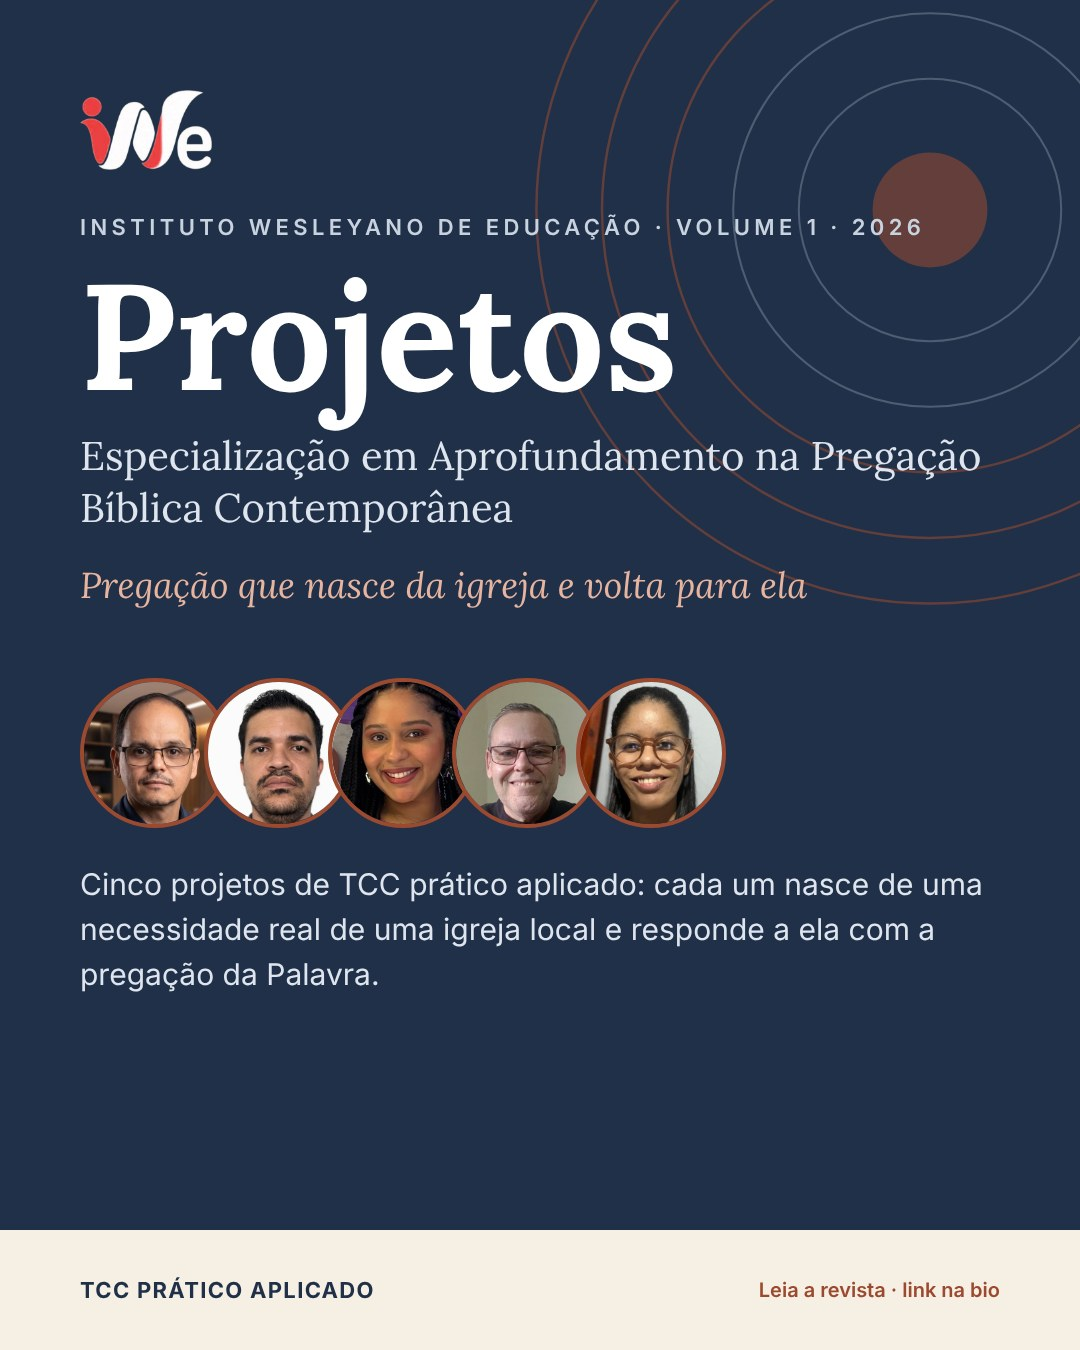
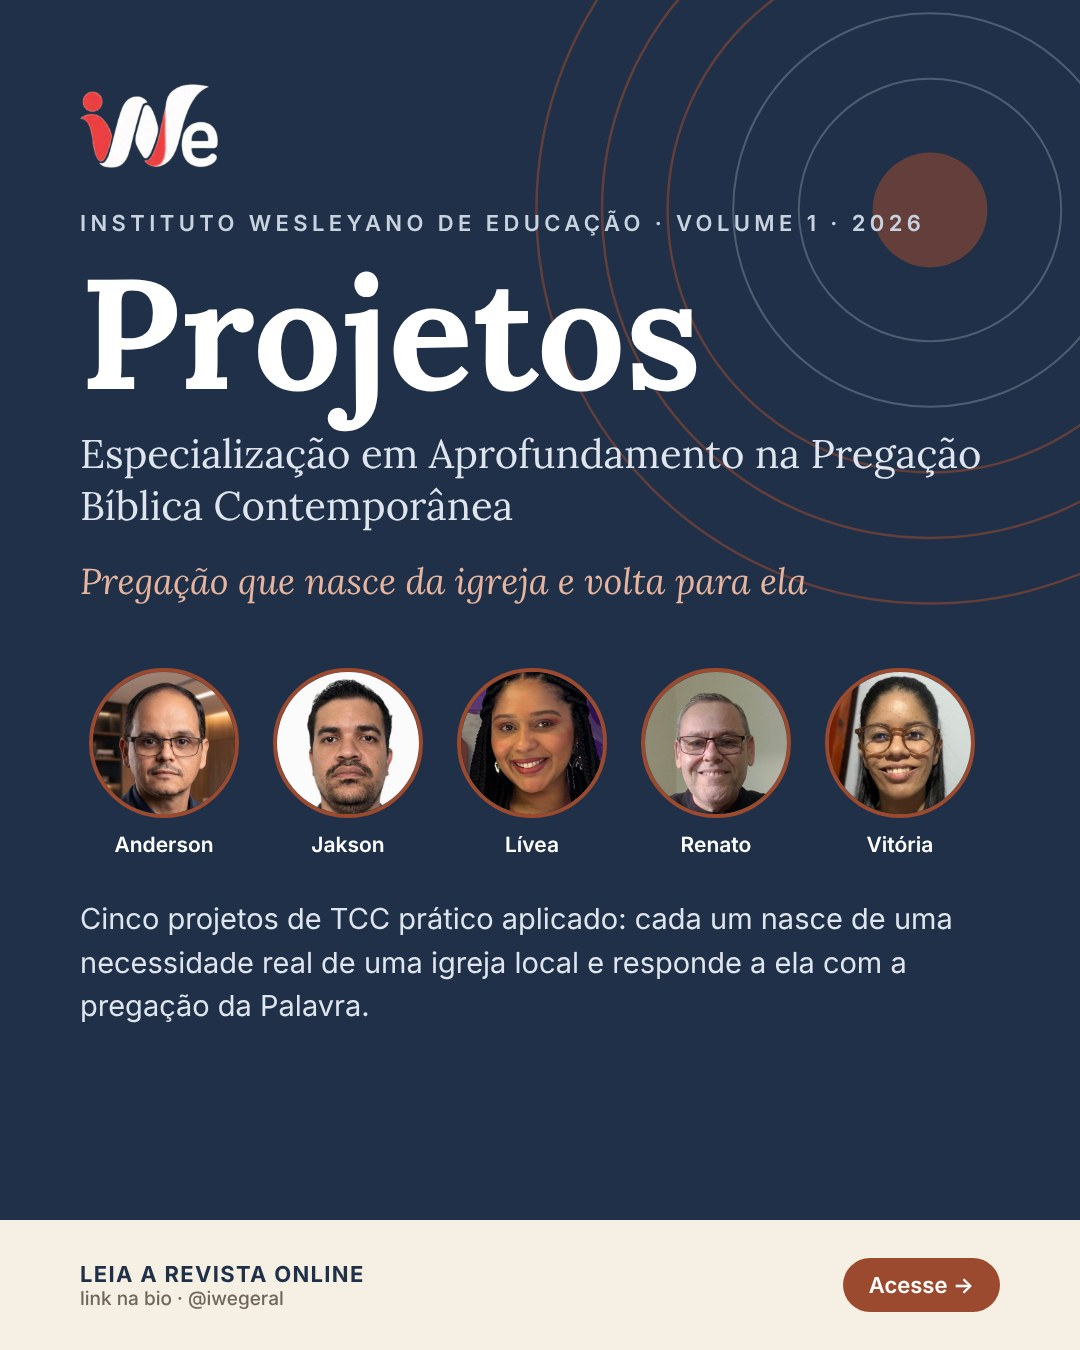
Card personalizado da página (WhatsApp e Instagram) e botões de compartilhar no menu
Claude-Session: https://claude.ai/code/session_01RmxGmrmbycrSVFP3Etbp99

diff --git a/index.html b/index.html
@@ -13,8 +13,8 @@
 <meta property="og:title" content="Revista Projetos · Especialização em Aprofundamento na Pregação Bíblica Contemporânea">
 <meta property="og:description" content="Cinco projetos de TCC prático aplicado do IWE: pregação que nasce da igreja e volta para ela. Volume 1 · 2026.">
 <meta property="og:url" content="https://alexandrebeloniimw-cmyk.github.io/pregacao-biblica-contemporanea-projetos/">
-<meta property="og:image" content="https://alexandrebeloniimw-cmyk.github.io/pregacao-biblica-contemporanea-projetos/img/og/og-revista.jpg">
-<meta property="og:image:secure_url" content="https://alexandrebeloniimw-cmyk.github.io/pregacao-biblica-contemporanea-projetos/img/og/og-revista.jpg">
+<meta property="og:image" content="https://alexandrebeloniimw-cmyk.github.io/pregacao-biblica-contemporanea-projetos/img/og/og-revista-v2.jpg">
+<meta property="og:image:secure_url" content="https://alexandrebeloniimw-cmyk.github.io/pregacao-biblica-contemporanea-projetos/img/og/og-revista-v2.jpg">
 <meta property="og:image:type" content="image/jpeg">
 <meta property="og:image:width" content="1200">
 <meta property="og:image:height" content="630">
@@ -40,6 +40,14 @@ nav .links a{text-decoration:none;opacity:.85}
 nav .links a:hover{opacity:1}
 nav .links a,nav .brand{white-space:nowrap}
 nav .links{gap:16px!important}
+.nshare{display:inline-flex;align-items:center;justify-content:center;width:32px;height:32px;border-radius:50%;border:0;cursor:pointer;opacity:1!important;flex:none;padding:0}
+.nshare .ico{width:17px;height:17px;vertical-align:0}
+.nshare.wa{background:#25d366;color:#fff!important}
+.nshare.ig{background:linear-gradient(45deg,#f09433,#dc2743 50%,#bc1888);color:#fff}
+.nshare:hover{filter:brightness(1.1)}
+nav .links{gap:14px!important}
+nav .wrap{max-width:1240px}
+.mlinks{align-items:center}
 nav .links .sep{width:1px;height:18px;background:rgba(201,211,224,.4)}
 nav .links{align-items:center}
 .mlinks{display:none}
@@ -208,9 +216,9 @@ footer a{color:#e7b49f;text-decoration:none}
 
 <nav><div class="wrap">
  <a class="brand" href="#topo"><img src="img/logo-iwe-claro.png" alt="Logo do IWE">Projetos · Volume 1</a>
- <div class="links"><a href="#projetos">Projetos</a><a href="#ementa">Ementa</a><a href="#expediente">Expediente</a><a href="pdf/revista-projetos-pregacao-biblica-contemporanea-v1.pdf" target="_blank">Revista (PDF)</a><span class="sep"></span><a href="https://alexandrebeloniimw-cmyk.github.io/revistateologicoministerialiwecascadura2026/">IWE Cascadura</a><a href="https://alexandrebeloniimw-cmyk.github.io/revista-iwe-2026/">IWE John Wesley</a><a href="https://alexandrebeloniimw-cmyk.github.io/revistateologicoministerialiwecascadura2026/acervo.html">Acervo</a><a class="insta-pill" href="https://www.instagram.com/iwegeral/" target="_blank" rel="noopener" aria-label="Instagram do IWE (@iwegeral)"><svg class="ico" viewBox="0 0 24 24" aria-hidden="true"><path d="M12 7a5 5 0 1 0 0 10 5 5 0 0 0 0-10zm0 8.2a3.2 3.2 0 1 1 0-6.4 3.2 3.2 0 0 1 0 6.4zM17.3 5.5a1.2 1.2 0 1 0 0 2.4 1.2 1.2 0 0 0 0-2.4zM21.9 7.1c-.1-1.6-.4-3-1.6-4.2S17.6 1.3 16 1.2C14.3 1.1 9.7 1.1 8 1.2c-1.6.1-3 .4-4.2 1.6S2.2 5.5 2.1 7.1C2 8.8 2 13.4 2.1 15.1c.1 1.6.4 3 1.6 4.2s2.6 1.5 4.2 1.6c1.7.1 6.3.1 8 0 1.6-.1 3-.4 4.2-1.6s1.5-2.6 1.6-4.2c.1-1.7.1-6.3 0-8zm-2.1 9.9a3.2 3.2 0 0 1-1.8 1.8c-1.3.5-4.2.4-5.6.4s-4.3.1-5.6-.4A3.2 3.2 0 0 1 5 17c-.5-1.3-.4-4.2-.4-5.6S4.5 7.1 5 5.8A3.2 3.2 0 0 1 6.8 4c1.3-.5 4.2-.4 5.6-.4s4.3-.1 5.6.4A3.2 3.2 0 0 1 19.8 5.8c.5 1.3.4 4.2.4 5.6s.1 4.3-.4 5.6z"/></svg>@iwegeral</a></div>
+ <div class="links"><a href="#projetos">Projetos</a><a href="#ementa">Ementa</a><a href="#expediente">Expediente</a><a href="pdf/revista-projetos-pregacao-biblica-contemporanea-v1.pdf" target="_blank">Revista (PDF)</a><span class="sep"></span><a href="https://alexandrebeloniimw-cmyk.github.io/revistateologicoministerialiwecascadura2026/">IWE Cascadura</a><a href="https://alexandrebeloniimw-cmyk.github.io/revista-iwe-2026/">IWE John Wesley</a><a href="https://alexandrebeloniimw-cmyk.github.io/revistateologicoministerialiwecascadura2026/acervo.html">Acervo</a><a class="insta-pill" href="https://www.instagram.com/iwegeral/" target="_blank" rel="noopener" aria-label="Instagram do IWE (@iwegeral)"><svg class="ico" viewBox="0 0 24 24" aria-hidden="true"><path d="M12 7a5 5 0 1 0 0 10 5 5 0 0 0 0-10zm0 8.2a3.2 3.2 0 1 1 0-6.4 3.2 3.2 0 0 1 0 6.4zM17.3 5.5a1.2 1.2 0 1 0 0 2.4 1.2 1.2 0 0 0 0-2.4zM21.9 7.1c-.1-1.6-.4-3-1.6-4.2S17.6 1.3 16 1.2C14.3 1.1 9.7 1.1 8 1.2c-1.6.1-3 .4-4.2 1.6S2.2 5.5 2.1 7.1C2 8.8 2 13.4 2.1 15.1c.1 1.6.4 3 1.6 4.2s2.6 1.5 4.2 1.6c1.7.1 6.3.1 8 0 1.6-.1 3-.4 4.2-1.6s1.5-2.6 1.6-4.2c.1-1.7.1-6.3 0-8zm-2.1 9.9a3.2 3.2 0 0 1-1.8 1.8c-1.3.5-4.2.4-5.6.4s-4.3.1-5.6-.4A3.2 3.2 0 0 1 5 17c-.5-1.3-.4-4.2-.4-5.6S4.5 7.1 5 5.8A3.2 3.2 0 0 1 6.8 4c1.3-.5 4.2-.4 5.6-.4s4.3-.1 5.6.4A3.2 3.2 0 0 1 19.8 5.8c.5 1.3.4 4.2.4 5.6s.1 4.3-.4 5.6z"/></svg>@iwegeral</a><a class="nshare wa" data-wa="revista" href="#" title="Compartilhar a página no WhatsApp" aria-label="Compartilhar no WhatsApp"><svg class="ico" viewBox="0 0 24 24" aria-hidden="true"><path d="M12 2a10 10 0 0 0-8.6 15.1L2 22l5-1.3A10 10 0 1 0 12 2zm0 18.2a8.2 8.2 0 0 1-4.2-1.2l-.3-.2-3 .8.8-2.9-.2-.3A8.2 8.2 0 1 1 12 20.2zm4.5-6.1c-.2-.1-1.5-.7-1.7-.8-.2-.1-.4-.1-.6.1l-.8 1c-.1.2-.3.2-.5.1a6.7 6.7 0 0 1-3.3-2.9c-.3-.4.2-.4.7-1.3.1-.2 0-.3 0-.4l-.8-1.8c-.2-.5-.4-.4-.6-.4h-.5a1 1 0 0 0-.7.3 3 3 0 0 0-.9 2.2 5.2 5.2 0 0 0 1.1 2.7 11.8 11.8 0 0 0 4.5 4c1.7.7 2.3.8 3.2.6a2.7 2.7 0 0 0 1.8-1.3 2.2 2.2 0 0 0 .2-1.3c-.1-.1-.3-.2-.5-.3z"/></svg></a><button class="nshare ig" data-ig="revista" type="button" title="Card da página para o feed do Instagram" aria-label="Compartilhar no Instagram"><svg class="ico" viewBox="0 0 24 24" aria-hidden="true"><path d="M12 7a5 5 0 1 0 0 10 5 5 0 0 0 0-10zm0 8.2a3.2 3.2 0 1 1 0-6.4 3.2 3.2 0 0 1 0 6.4zM17.3 5.5a1.2 1.2 0 1 0 0 2.4 1.2 1.2 0 0 0 0-2.4zM21.9 7.1c-.1-1.6-.4-3-1.6-4.2S17.6 1.3 16 1.2C14.3 1.1 9.7 1.1 8 1.2c-1.6.1-3 .4-4.2 1.6S2.2 5.5 2.1 7.1C2 8.8 2 13.4 2.1 15.1c.1 1.6.4 3 1.6 4.2s2.6 1.5 4.2 1.6c1.7.1 6.3.1 8 0 1.6-.1 3-.4 4.2-1.6s1.5-2.6 1.6-4.2c.1-1.7.1-6.3 0-8zm-2.1 9.9a3.2 3.2 0 0 1-1.8 1.8c-1.3.5-4.2.4-5.6.4s-4.3.1-5.6-.4A3.2 3.2 0 0 1 5 17c-.5-1.3-.4-4.2-.4-5.6S4.5 7.1 5 5.8A3.2 3.2 0 0 1 6.8 4c1.3-.5 4.2-.4 5.6-.4s4.3-.1 5.6.4A3.2 3.2 0 0 1 19.8 5.8c.5 1.3.4 4.2.4 5.6s.1 4.3-.4 5.6z"/></svg></button></div>
 </div>
-<div class="mlinks"><a href="#projetos">Projetos</a><a href="#ementa">Ementa</a><a href="#expediente">Expediente</a><a href="pdf/revista-projetos-pregacao-biblica-contemporanea-v1.pdf" target="_blank">Revista (PDF)</a><a href="https://alexandrebeloniimw-cmyk.github.io/revistateologicoministerialiwecascadura2026/">IWE Cascadura</a><a href="https://alexandrebeloniimw-cmyk.github.io/revista-iwe-2026/">IWE John Wesley</a><a href="https://alexandrebeloniimw-cmyk.github.io/revistateologicoministerialiwecascadura2026/acervo.html">Acervo</a><a class="insta-pill" href="https://www.instagram.com/iwegeral/" target="_blank" rel="noopener"><svg class="ico" viewBox="0 0 24 24" aria-hidden="true"><path d="M12 7a5 5 0 1 0 0 10 5 5 0 0 0 0-10zm0 8.2a3.2 3.2 0 1 1 0-6.4 3.2 3.2 0 0 1 0 6.4zM17.3 5.5a1.2 1.2 0 1 0 0 2.4 1.2 1.2 0 0 0 0-2.4zM21.9 7.1c-.1-1.6-.4-3-1.6-4.2S17.6 1.3 16 1.2C14.3 1.1 9.7 1.1 8 1.2c-1.6.1-3 .4-4.2 1.6S2.2 5.5 2.1 7.1C2 8.8 2 13.4 2.1 15.1c.1 1.6.4 3 1.6 4.2s2.6 1.5 4.2 1.6c1.7.1 6.3.1 8 0 1.6-.1 3-.4 4.2-1.6s1.5-2.6 1.6-4.2c.1-1.7.1-6.3 0-8zm-2.1 9.9a3.2 3.2 0 0 1-1.8 1.8c-1.3.5-4.2.4-5.6.4s-4.3.1-5.6-.4A3.2 3.2 0 0 1 5 17c-.5-1.3-.4-4.2-.4-5.6S4.5 7.1 5 5.8A3.2 3.2 0 0 1 6.8 4c1.3-.5 4.2-.4 5.6-.4s4.3-.1 5.6.4A3.2 3.2 0 0 1 19.8 5.8c.5 1.3.4 4.2.4 5.6s.1 4.3-.4 5.6z"/></svg>@iwegeral</a>
+<div class="mlinks"><a class="nshare wa" data-wa="revista" href="#" title="Compartilhar a página no WhatsApp" aria-label="Compartilhar no WhatsApp"><svg class="ico" viewBox="0 0 24 24" aria-hidden="true"><path d="M12 2a10 10 0 0 0-8.6 15.1L2 22l5-1.3A10 10 0 1 0 12 2zm0 18.2a8.2 8.2 0 0 1-4.2-1.2l-.3-.2-3 .8.8-2.9-.2-.3A8.2 8.2 0 1 1 12 20.2zm4.5-6.1c-.2-.1-1.5-.7-1.7-.8-.2-.1-.4-.1-.6.1l-.8 1c-.1.2-.3.2-.5.1a6.7 6.7 0 0 1-3.3-2.9c-.3-.4.2-.4.7-1.3.1-.2 0-.3 0-.4l-.8-1.8c-.2-.5-.4-.4-.6-.4h-.5a1 1 0 0 0-.7.3 3 3 0 0 0-.9 2.2 5.2 5.2 0 0 0 1.1 2.7 11.8 11.8 0 0 0 4.5 4c1.7.7 2.3.8 3.2.6a2.7 2.7 0 0 0 1.8-1.3 2.2 2.2 0 0 0 .2-1.3c-.1-.1-.3-.2-.5-.3z"/></svg></a><button class="nshare ig" data-ig="revista" type="button" title="Card da página para o feed do Instagram" aria-label="Compartilhar no Instagram"><svg class="ico" viewBox="0 0 24 24" aria-hidden="true"><path d="M12 7a5 5 0 1 0 0 10 5 5 0 0 0 0-10zm0 8.2a3.2 3.2 0 1 1 0-6.4 3.2 3.2 0 0 1 0 6.4zM17.3 5.5a1.2 1.2 0 1 0 0 2.4 1.2 1.2 0 0 0 0-2.4zM21.9 7.1c-.1-1.6-.4-3-1.6-4.2S17.6 1.3 16 1.2C14.3 1.1 9.7 1.1 8 1.2c-1.6.1-3 .4-4.2 1.6S2.2 5.5 2.1 7.1C2 8.8 2 13.4 2.1 15.1c.1 1.6.4 3 1.6 4.2s2.6 1.5 4.2 1.6c1.7.1 6.3.1 8 0 1.6-.1 3-.4 4.2-1.6s1.5-2.6 1.6-4.2c.1-1.7.1-6.3 0-8zm-2.1 9.9a3.2 3.2 0 0 1-1.8 1.8c-1.3.5-4.2.4-5.6.4s-4.3.1-5.6-.4A3.2 3.2 0 0 1 5 17c-.5-1.3-.4-4.2-.4-5.6S4.5 7.1 5 5.8A3.2 3.2 0 0 1 6.8 4c1.3-.5 4.2-.4 5.6-.4s4.3-.1 5.6.4A3.2 3.2 0 0 1 19.8 5.8c.5 1.3.4 4.2.4 5.6s.1 4.3-.4 5.6z"/></svg></button><a href="#projetos">Projetos</a><a href="#ementa">Ementa</a><a href="#expediente">Expediente</a><a href="pdf/revista-projetos-pregacao-biblica-contemporanea-v1.pdf" target="_blank">Revista (PDF)</a><a href="https://alexandrebeloniimw-cmyk.github.io/revistateologicoministerialiwecascadura2026/">IWE Cascadura</a><a href="https://alexandrebeloniimw-cmyk.github.io/revista-iwe-2026/">IWE John Wesley</a><a href="https://alexandrebeloniimw-cmyk.github.io/revistateologicoministerialiwecascadura2026/acervo.html">Acervo</a><a class="insta-pill" href="https://www.instagram.com/iwegeral/" target="_blank" rel="noopener"><svg class="ico" viewBox="0 0 24 24" aria-hidden="true"><path d="M12 7a5 5 0 1 0 0 10 5 5 0 0 0 0-10zm0 8.2a3.2 3.2 0 1 1 0-6.4 3.2 3.2 0 0 1 0 6.4zM17.3 5.5a1.2 1.2 0 1 0 0 2.4 1.2 1.2 0 0 0 0-2.4zM21.9 7.1c-.1-1.6-.4-3-1.6-4.2S17.6 1.3 16 1.2C14.3 1.1 9.7 1.1 8 1.2c-1.6.1-3 .4-4.2 1.6S2.2 5.5 2.1 7.1C2 8.8 2 13.4 2.1 15.1c.1 1.6.4 3 1.6 4.2s2.6 1.5 4.2 1.6c1.7.1 6.3.1 8 0 1.6-.1 3-.4 4.2-1.6s1.5-2.6 1.6-4.2c.1-1.7.1-6.3 0-8zm-2.1 9.9a3.2 3.2 0 0 1-1.8 1.8c-1.3.5-4.2.4-5.6.4s-4.3.1-5.6-.4A3.2 3.2 0 0 1 5 17c-.5-1.3-.4-4.2-.4-5.6S4.5 7.1 5 5.8A3.2 3.2 0 0 1 6.8 4c1.3-.5 4.2-.4 5.6-.4s4.3-.1 5.6.4A3.2 3.2 0 0 1 19.8 5.8c.5 1.3.4 4.2.4 5.6s.1 4.3-.4 5.6z"/></svg>@iwegeral</a>
 </div></nav>
 
 <header class="hero" id="topo">
